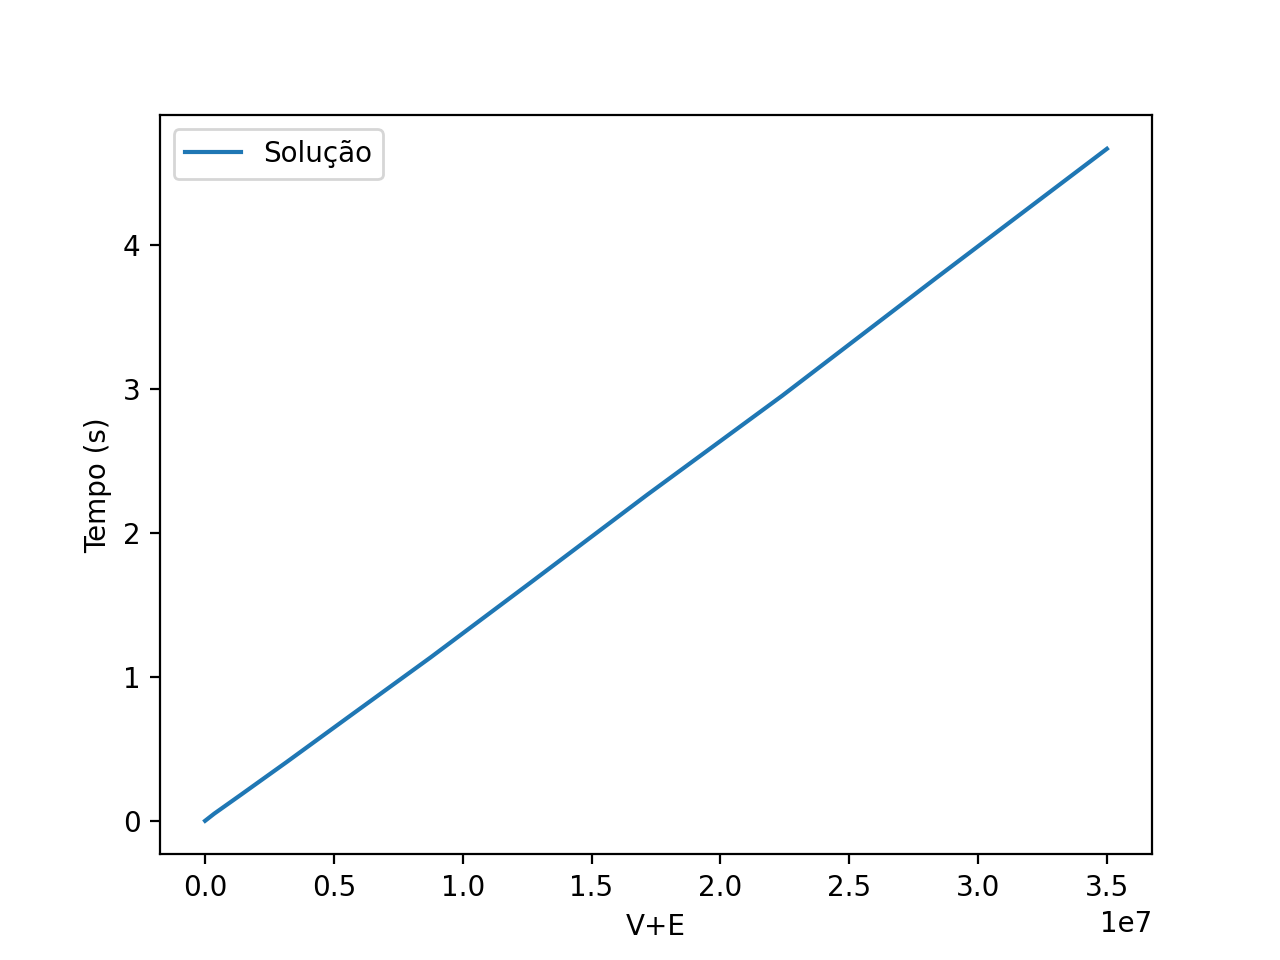
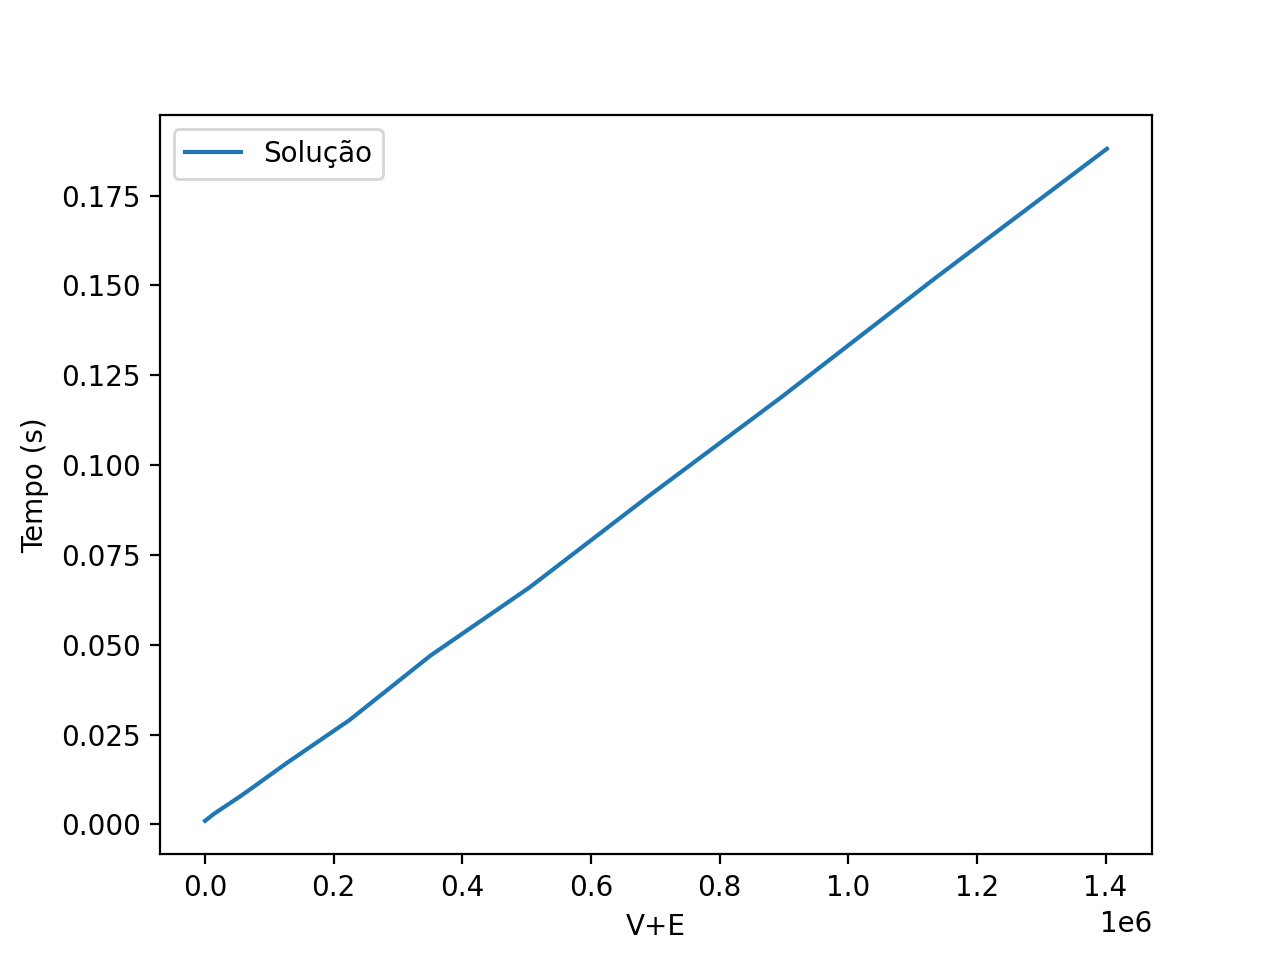
new benchmarks

diff --git a/src/benchmark.py b/src/benchmark.py
@@ -1,17 +1,17 @@
 import matplotlib.pyplot as plt
 
-# with open("times.benchmark","r") as f:
-#     data = f.read().split("\n")
+with open("report/benchmarks","r") as f:
+    data = f.read().strip().split("\n")
     
-# x = []
-# y = [] 
-# for size, time in map(lambda x: x.split(),data):
-#     x.append(float(size))
-#     y.append(float(time))
+x = []
+y = [] 
+for a,b,time in map(lambda x: x.split(),data):
+    x.append(int(a)+int(b))
+    y.append(float(time))
 
 # too lazy lol
-x = [2,1000+349560,2000+1398226,3000+3149015,4000+5597757,5000+8748142,6000+12596349,7000+17147865,8000+22398701,9000+28344022,10000+34995343]
-y = [0.001,0.05,0.183,0.407,0.726,1.135,1.650,2.263,2.952,3.765,4.665]
+# x = [2,1000+349560,2000+1398226,3000+3149015,4000+5597757,5000+8748142,6000+12596349,7000+17147865,8000+22398701,9000+28344022,10000+34995343]
+# y = [0.001,0.05,0.183,0.407,0.726,1.135,1.650,2.263,2.952,3.765,4.665]
 
 plt.plot(x,y)
 plt.legend(["Solução"])
